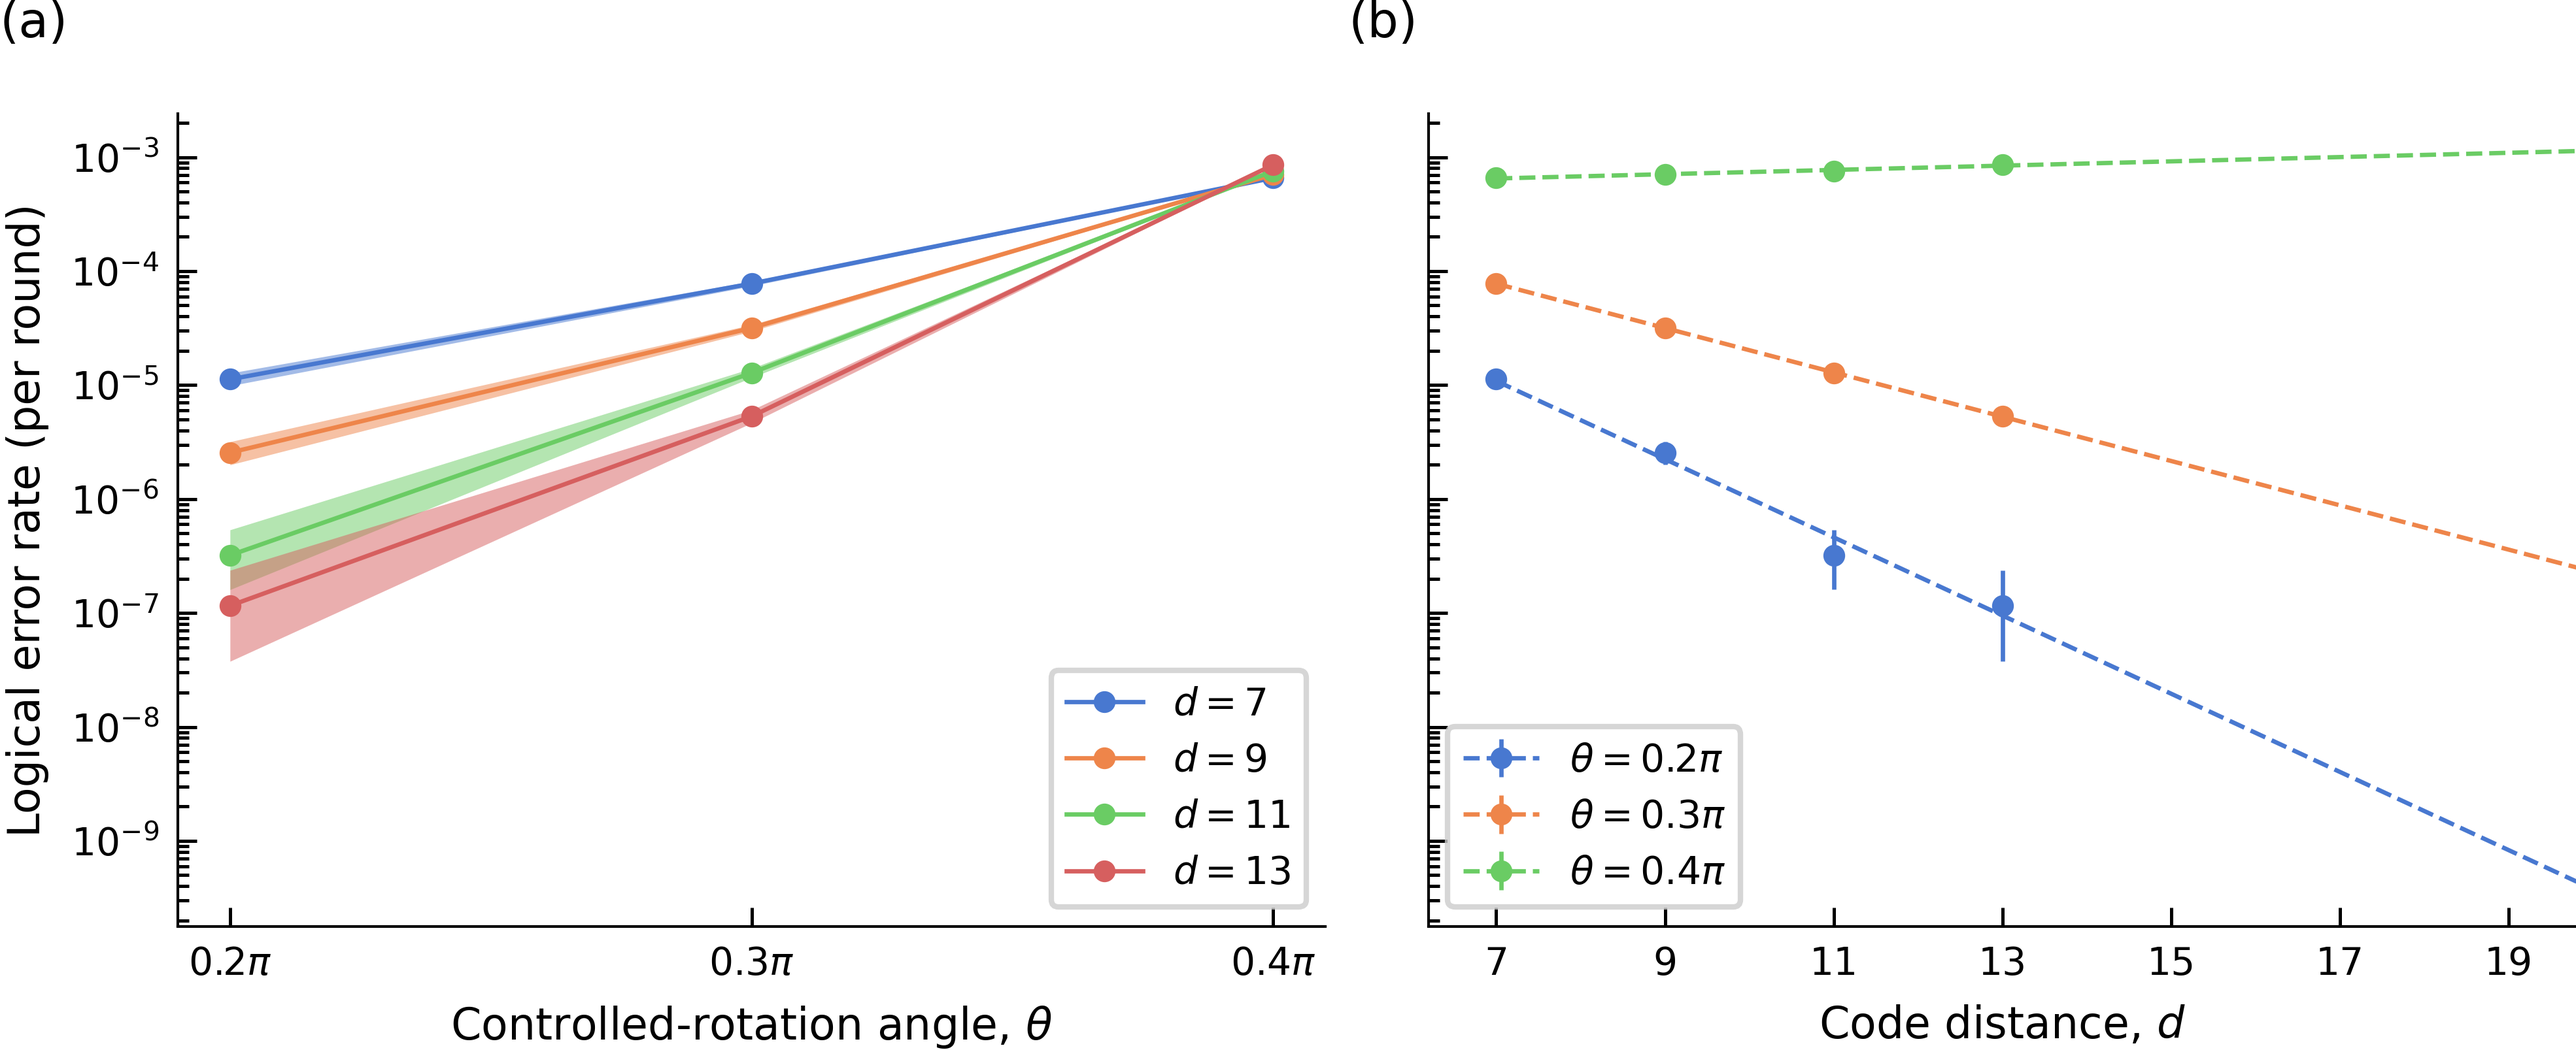
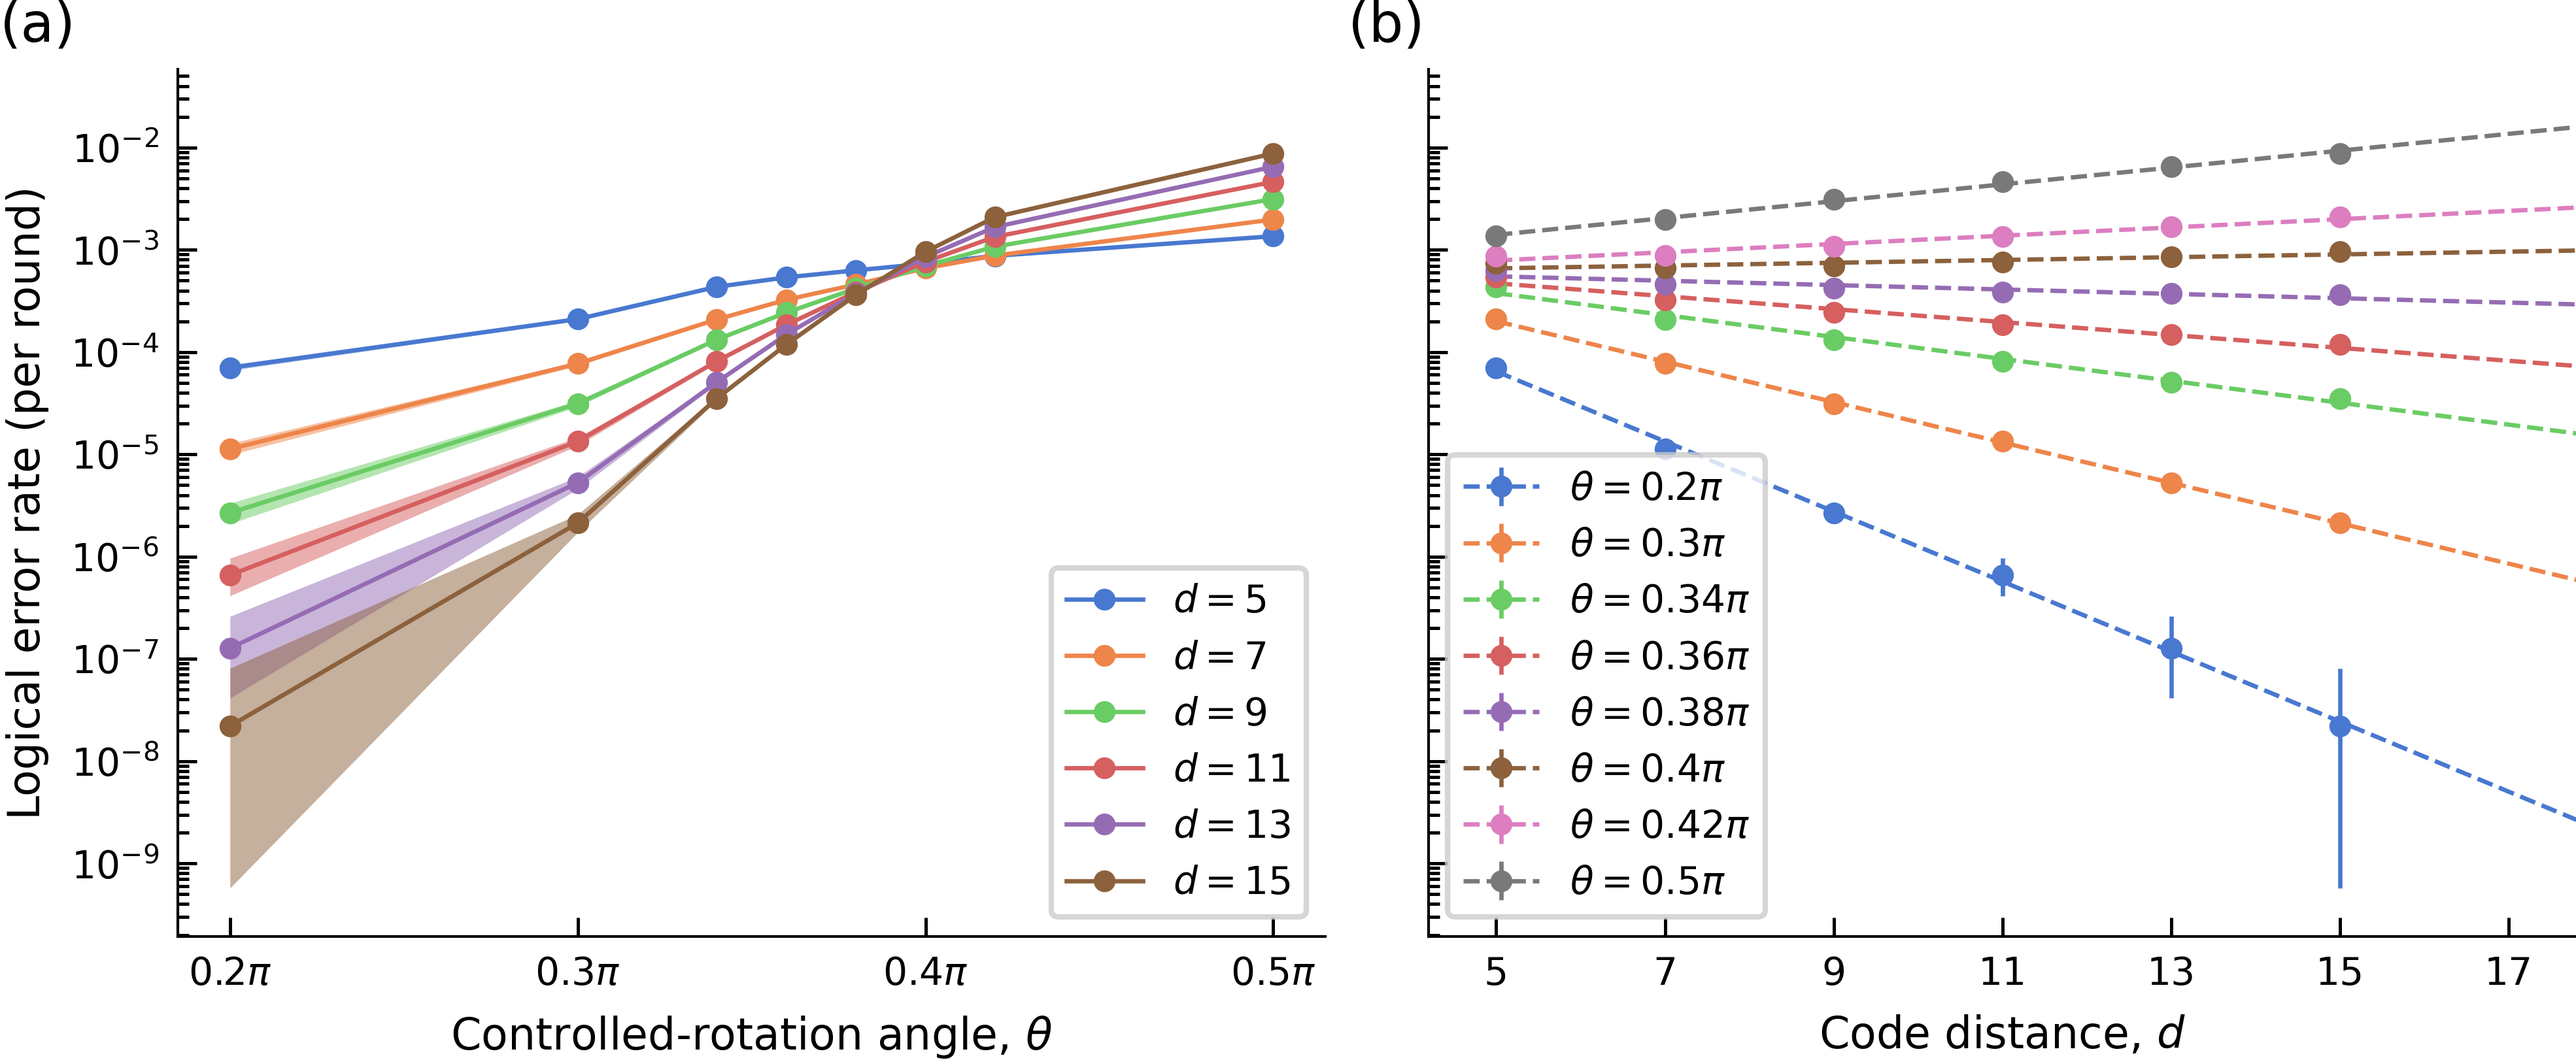
Update experiment 4 params

diff --git a/scripts/experiment4_figures.py b/scripts/experiment4_figures.py
@@ -138,7 +138,7 @@ if __name__ == "__main__":
         # Exponential fits
         logy = np.log(center)
         b, a = np.polyfit(distance_sorted_j, logy, 1)
-        x_fit = np.linspace(7, 20, 100)
+        x_fit = np.linspace(5, 20, 100)
         y_fit = np.exp(a + b * x_fit)
         ax2.plot(
             x_fit,
@@ -162,11 +162,11 @@ if __name__ == "__main__":
 
     ax2.legend(loc="lower left")
     ax2.set_xlabel("Code distance, $d$")
-    ax2.set_xlim(6.2, 19.8)
-    ax2.set_xticks([7, 9, 11, 13, 15, 17, 19])
+    ax2.set_xlim(4.2, 17.8)
+    ax2.set_xticks([5, 7, 9, 11, 13, 15, 17])
 
-    ax1.text(-0.155, 1.14, "(a)", transform=ax1.transAxes, va="top", ha="left", size=9)
-    ax2.text(-0.07, 1.14, "(b)", transform=ax2.transAxes, va="top", ha="left", size=9)
+    ax1.text(-0.155, 1.08, "(a)", transform=ax1.transAxes, va="top", ha="left", size=10)
+    ax2.text(-0.07, 1.08, "(b)", transform=ax2.transAxes, va="top", ha="left", size=10)
 
     for ax in (ax1, ax2):
         ax.semilogy()

diff --git a/scripts/experiment4.py b/scripts/experiment4.py
@@ -13,9 +13,9 @@ def main():
 
     # Sweep over distances and controlled-rotation angles
     tasks = []
-    thetas = [0.0, 0.1, 0.2, 0.3, 0.34, 0.36, 0.38, 0.4, 0.42, 0.5]
+    thetas = [0.2, 0.25, 0.3, 0.34, 0.36, 0.38, 0.4, 0.42, 0.44, 0.48]
     thetas = [t * np.pi for t in thetas]
-    distances = [5, 7, 9, 11, 13, 15]
+    distances = [5, 7, 9, 11, 13, 15, 17]
 
     # Fixed noise model parameters
     p_gate = 0.001
